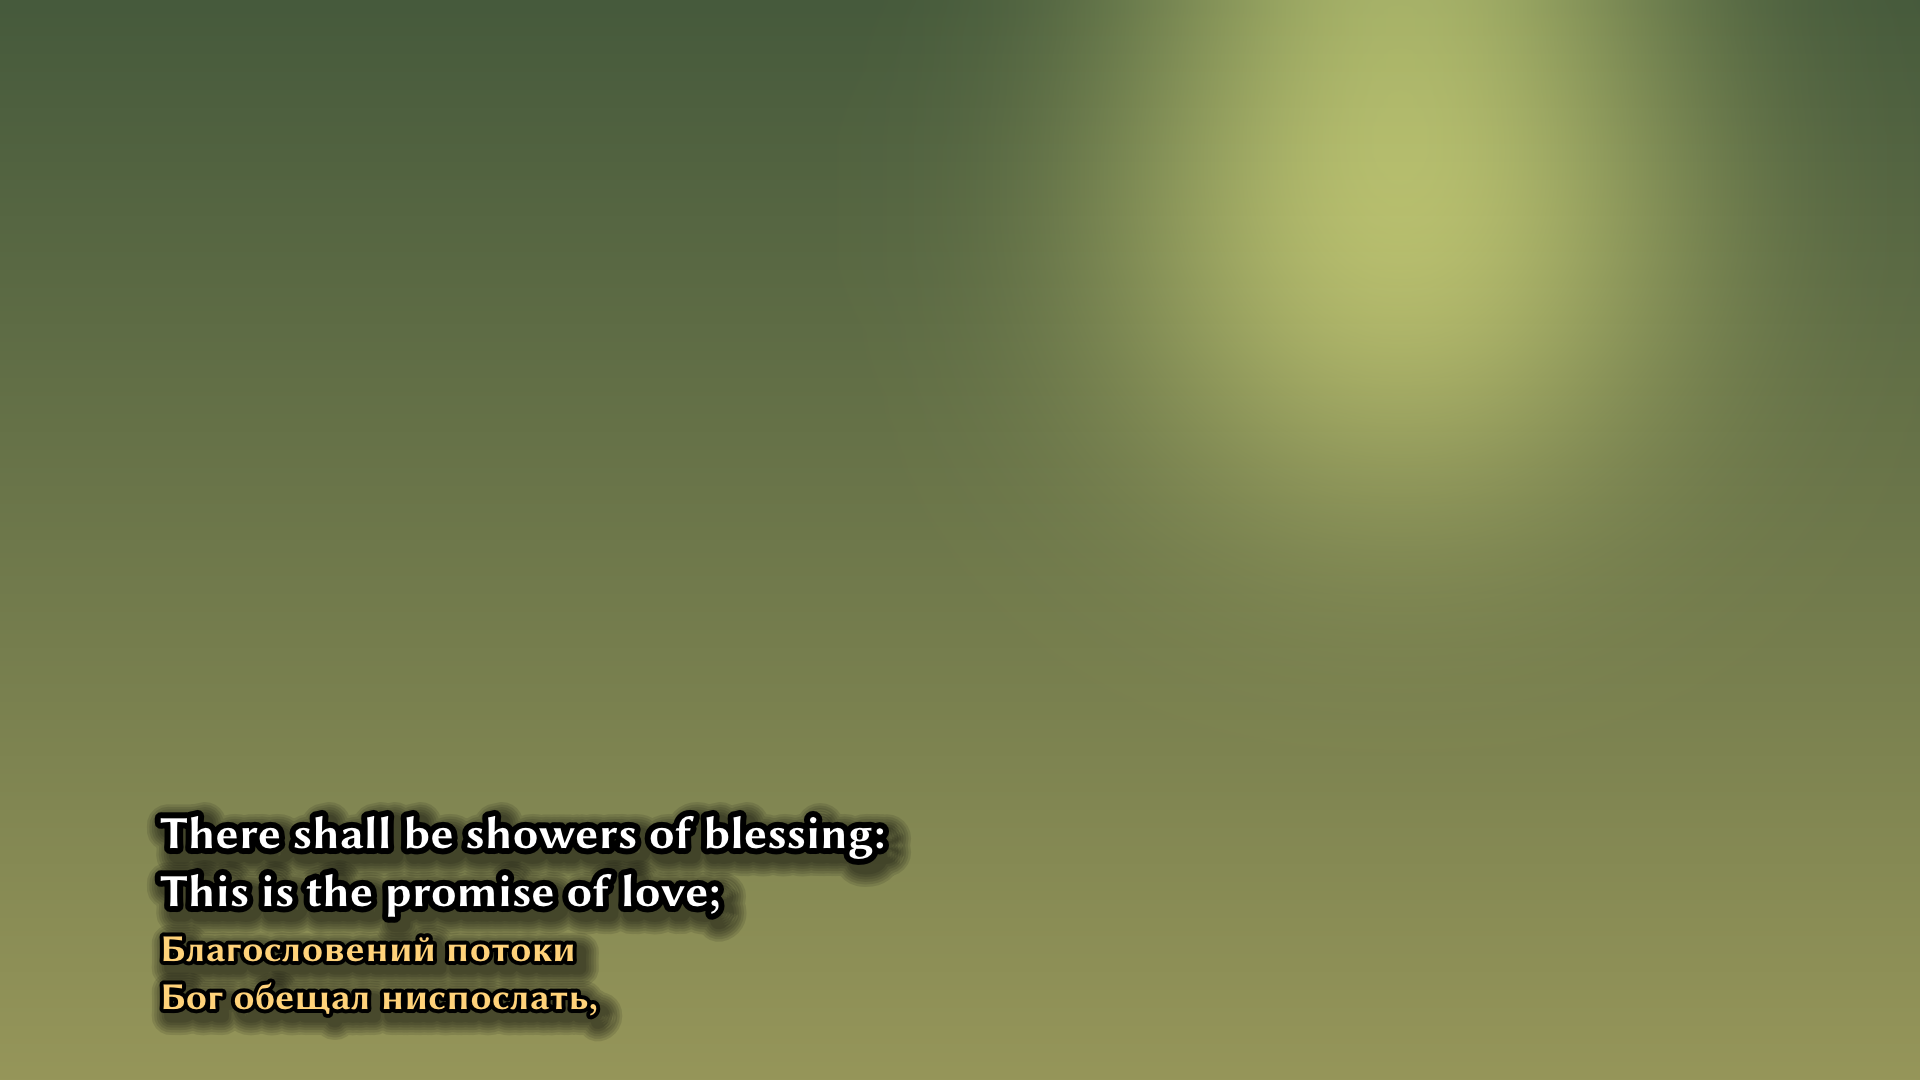
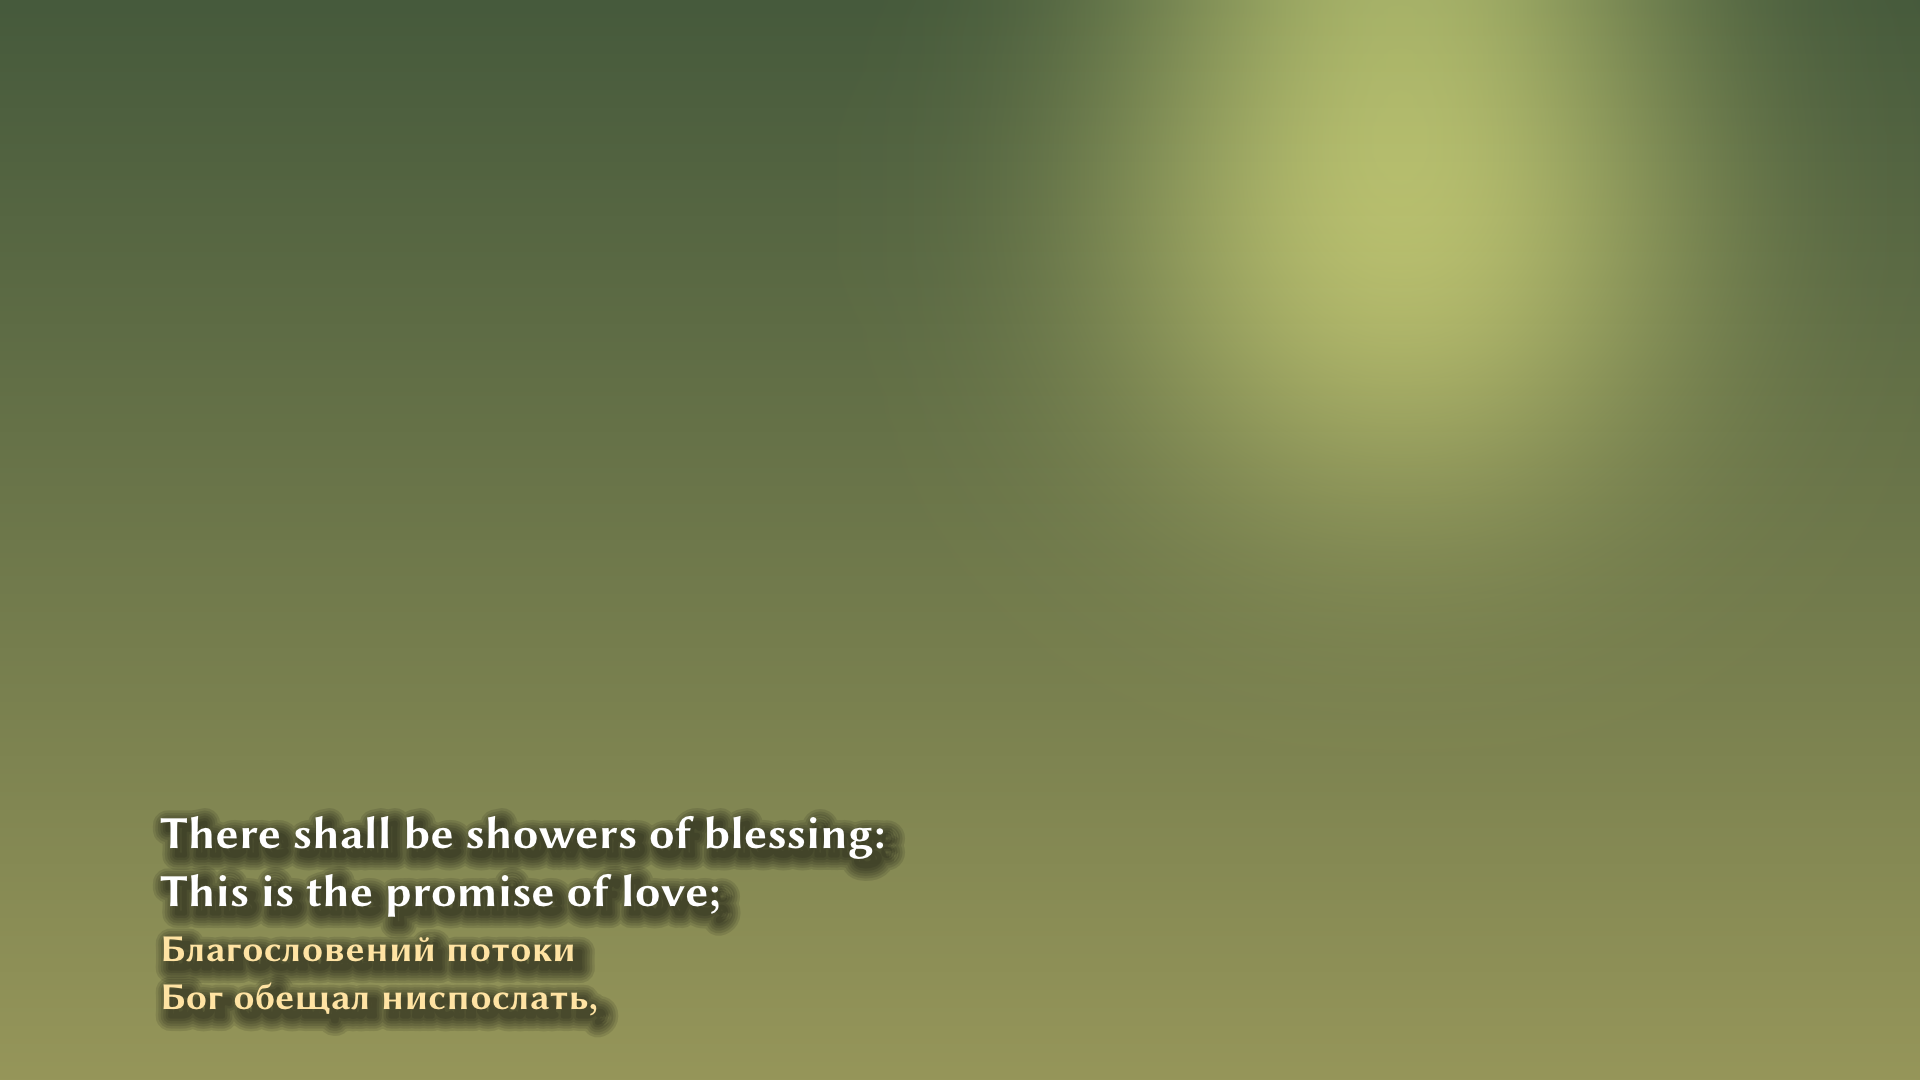
Retake the README pictures with a clean look for the words on screen
The slides in the pictures now use the built-in theme with its outline taken
off and a soft shadow kept, and the translation in a light gold, so the
Russian reads clearly on the background picture. The background picture is
deeper and calmer. Home, bible, stage, editor, themes, media, the lower
third, the import sheet and the styled-words pictures are retaken from the
same quiet test copy. The README no longer ends with a line naming another
product.

Checked: every picture read at full size; files under about 800 KB; fmt,
clippy and the workspace tests pass. Not refreshed: docs/images/screens.png.

Changed region(s): [[0.0625, 0.7333, 0.4688, 0.9472]]

diff --git a/README.md b/README.md
@@ -301,5 +301,3 @@ The Bibles keep their own terms ([docs/licences/bibles.md](docs/licences/bibles.
 LGPL build inside the app) runs as a separate program and NDI's runtime is opened at run time, never linked
 ([docs/licences/ffmpeg.md](docs/licences/ffmpeg.md), [docs/licences/ndi.md](docs/licences/ndi.md)).
 NDI® is a registered trademark of Vizrt NDI AB.
-
-SoftPresenter is not affiliated with or endorsed by Renewed Vision, the makers of ProPresenter.
